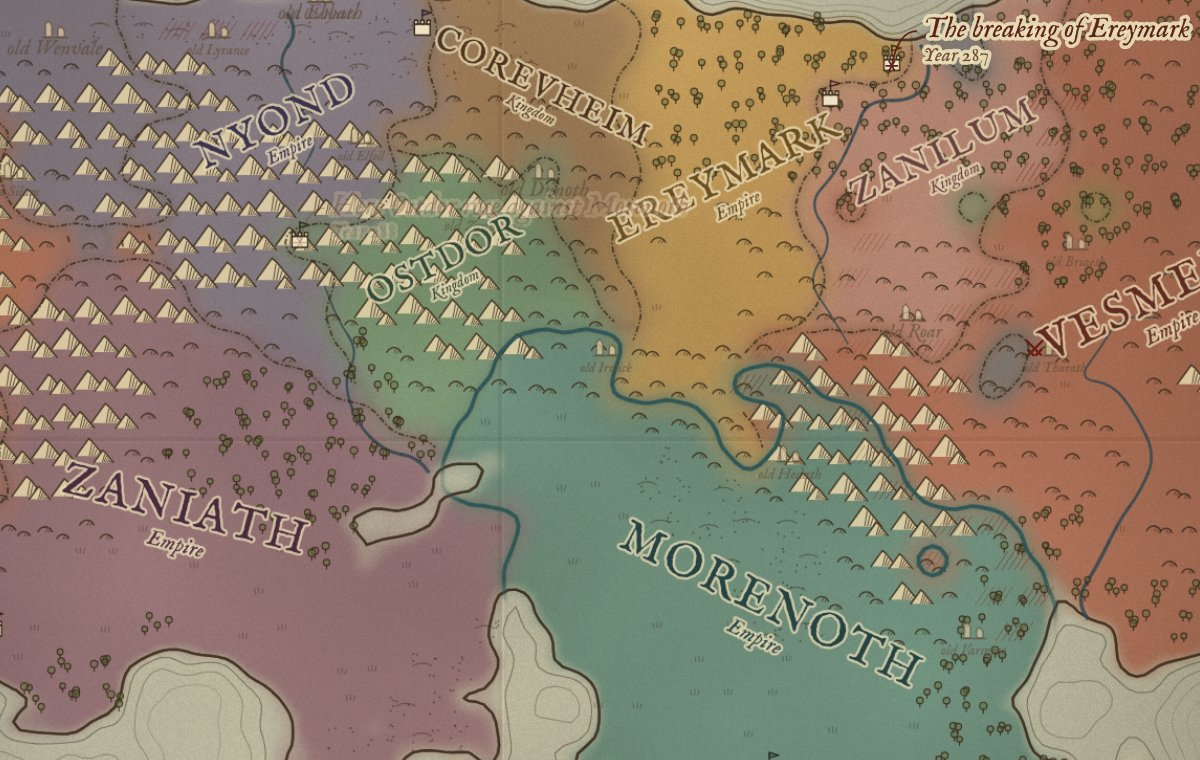
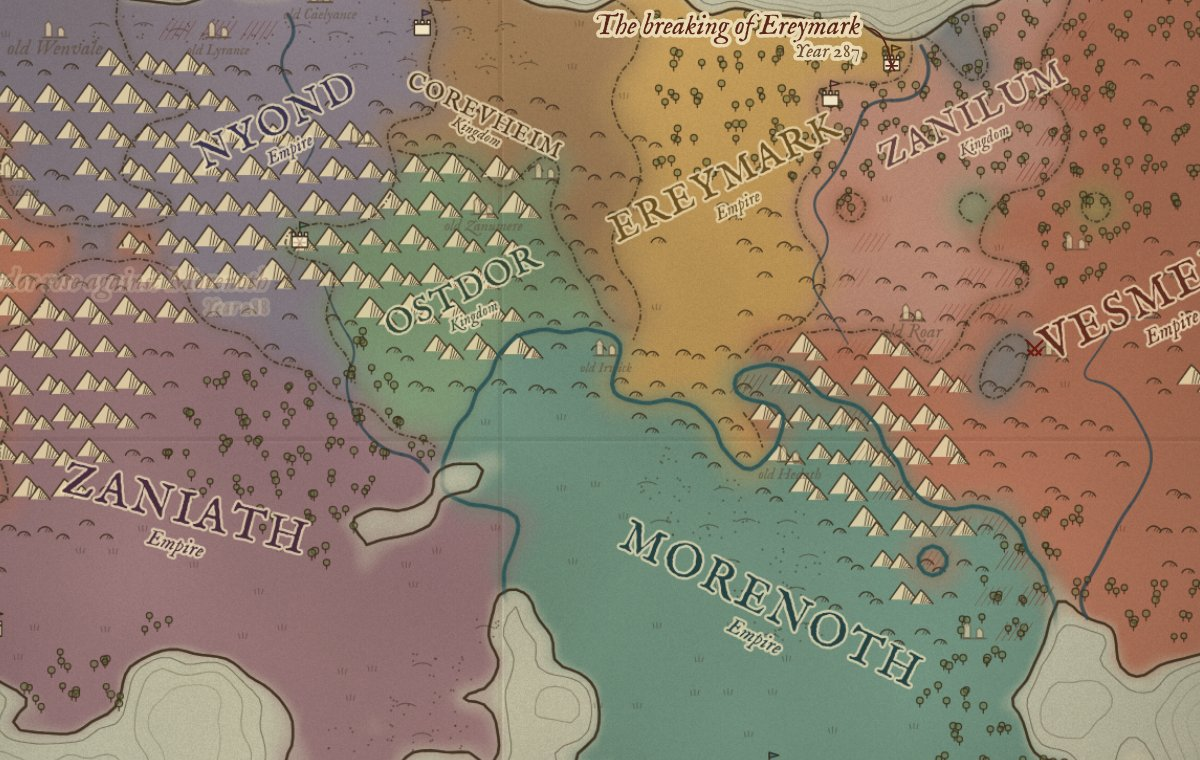
Keep the map legible and welcome first-time visitors
- Realm names are placed without collisions: biggest first, trying other spots
  and smaller sizes; small realms go unnamed rather than crowd the map.
- Ruin names appear only where there is room; map notes pick the corner that
  covers the fewest names.
- First-time visitors get a short welcome explaining what they are watching.
- Refresh README screenshots.

Claude-Session: https://claude.ai/code/session_01HbhNXhFmDXk7axxV6X9tAC

diff --git a/index.html b/index.html
@@ -250,7 +250,7 @@ let seed, worldName, gw, gh, F, thr, hexes, land, landCount, rivers, owner, dist
 let COLS, ROWS, X0, Y0, gOff, gHex, gW, liveFields, liveBorders, snapFields, snapBorders;
 let factions, wars, chron, eras, ruins, notes, tick, collapse, lastWarYear;
 let paperC, inkC, washC, washTmp, landBig, snapWashC, labels, snapLabels;
-let dirty = true, ovDirty = true, follow = null, viewEra = null, ovC;
+let labelBoxes = [], dirty = true, ovDirty = true, follow = null, viewEra = null, ovC;
 
 const year = () => Math.floor(tick / 12) + 1;
 
@@ -685,7 +685,8 @@ function computeLabels(own, infoOf) {
     const ang = a.n < 4 ? 0 : clamp(.5 * Math.atan2(2 * cxy, cxx - cyy), -.45, .45);
     const lx = a.n > 6 ? (mx + best.x) / 2 : best.x, ly = a.n > 6 ? (my + best.y) / 2 : best.y;
     if (a.n < 3) continue;
-    out.push({ x: lx, y: ly, ang, size: clamp(9 + Math.sqrt(a.n) * 2.2, 10, 30), n: a.n, ...info });
+    const near = a.tiles.map(h => [(h.x - mx) ** 2 + (h.y - my) ** 2, h]).sort((p, q) => p[0] - q[0]).slice(0, 10).map(([, h]) => [h.x, h.y]);
+    out.push({ x: lx, y: ly, cands: [[lx, ly], ...near], ang, size: clamp(9 + Math.sqrt(a.n) * 2.2, 10, 30), n: a.n, ...info });
   }
   return out.sort((p, q) => q.n - p.n);
 }
@@ -1178,7 +1179,7 @@ function restoreWorld(sv) {
   owner.set(unb64(sv.owner));
   for (const [i, t] of sv.caps) hexes[i].lastCap = t;
   factions = sv.factions.map(o => ({ ...o, allies: new Set(o.allies), truce: new Map(o.truce), fronts: new Map(), wildFront: [] }));
-  wars = sv.wars; chron = sv.chron; ruins = sv.ruins; notes = sv.notes || []; collapse = sv.collapse; lastWarYear = sv.lastWarYear;
+  wars = sv.wars; chron = sv.chron; ruins = sv.ruins; notes = (sv.notes || []).map(({ q, box, ...n }) => n); collapse = sv.collapse; lastWarYear = sv.lastWarYear;
   eras = sv.eras.map(e => ({ ...e, snap: e.snap ? { owner: unb64(e.snap.owner), info: new Map(e.snap.info) } : null }));
   usedNames = new Set(sv.usedNames); usedWars = new Map(sv.usedWars);
   for (const e of chron.slice(-250)) pushChronDom(e);
@@ -1188,6 +1189,21 @@ function restoreWorld(sv) {
   computeStats();
   dirty = true; renderCard(); renderTimeline(); resize();
   setSeedUrl(sv.seed);
+}
+function showIntro(shared) {
+  const el = document.getElementById('away');
+  el.innerHTML = `<h3>A world that plays itself</h3>
+    <p>${shared ? `Someone shared the world of ${worldName} with you.` : `This is ${worldName}.`} Its realms rise, make war, betray each other
+    and fall without anyone's help, and the chronicle on the right records every reign.</p>
+    <ul>
+      <li>Click a realm, or a name in the chronicle, to follow its fortunes.</li>
+      <li>Click an age on the timeline below to see the map as it stood then.</li>
+      <li>Close the tab whenever you like. Time keeps passing, and you'll hear what happened when you return.</li>
+    </ul>
+    <button id="awayok">Begin watching</button>`;
+  el.hidden = false;
+  document.getElementById('awayok').onclick = () => { el.hidden = true; };
+  document.getElementById('awayok').focus();
 }
 function offerReturn(prev) {
   const el = document.getElementById('away'), mine = prev.worldName || 'your own world';
@@ -1266,42 +1282,93 @@ function drawOverlay(x, own, labs, live, fields, borders) {
   }
   x.setTransform(1, 0, 0, 1, 0, 0); x.globalCompositeOperation = 'destination-in'; x.drawImage(landBig, 0, 0);
   x.restore();
-  if (live) {
-    // ruins of the fallen
-    for (const r of ruins) {
-      const fade = clamp(1 - (year() - r.year) / 200, 0, 1); if (fade <= 0) continue;
-      x.globalAlpha = .7 * fade; ruin(x, r.x, r.y);
-      x.font = `italic ${clamp(8 + Math.sqrt(r.peak), 9, 14)}px "IM Fell English", Georgia, serif`; x.textAlign = 'center';
-      x.fillStyle = '#5c4a38'; x.fillText(`old ${r.name}`, r.x, r.y + 15);
+  // place names without collisions: biggest realms first; a name that would overlap tries other
+  // spots in its realm, then smaller sizes, and a small realm's name is left off rather than crowd the map
+  const boxes = [
+    { x0: CART.x - 6, y0: CART.y - 6, x1: CART.x + CART.w + 6, y1: CART.y + CART.h + 6 },
+    { x0: COMPASS.x - COMPASS.r - 6, y0: COMPASS.y - COMPASS.r - 22, x1: COMPASS.x + COMPASS.r + 6, y1: COMPASS.y + COMPASS.r + 6 },
+  ];
+  const hit = b => boxes.some(o => b.x0 < o.x1 && b.x1 > o.x0 && b.y0 < o.y1 && b.y1 > o.y0);
+  const inFrame = b => b.x0 > MARGIN && b.x1 < MW - MARGIN && b.y0 > MARGIN && b.y1 < MH - MARGIN;
+  const placed = [];
+  for (const l of labs) {
+    const ca = Math.abs(Math.cos(l.ang)), sa = Math.abs(Math.sin(l.ang)), sub = l.n >= 12;
+    const boxAt = (c, size, w) => {
+      const hgt = size * (sub ? 1.95 : 1.15), cx = c[0], cy = c[1] - (l.n > 3 ? 12 : 14) + (sub ? size * .4 : 0);
+      const hx = ca * w / 2 + sa * hgt / 2, hy = sa * w / 2 + ca * hgt / 2;
+      return { x0: cx - hx, x1: cx + hx, y0: cy - hy, y1: cy + hy };
+    };
+    let done = null;
+    for (const k of [1, .85, .72]) {
+      const size = Math.max(9, l.size * k);
+      x.font = `${size}px "IM Fell English SC", Georgia, serif`;
+      const w = x.measureText(spaced(l.name)).width + 8;
+      for (const c of l.cands) { const b = boxAt(c, size, w); if (!hit(b) && inFrame(b)) { done = { c, size, b }; break; } }
+      if (done) break;
+      if (k === .72 && l.n >= 30) done = { c: l.cands[0], size, b: boxAt(l.cands[0], size, w) };   // a great realm is always named
     }
-    x.globalAlpha = 1;
+    if (done) { boxes.push(done.b); placed.push({ l, ...done }); }
   }
   // capitals
   for (const l of labs) { const c = hexes[l.capital]; if (c && own[c.i] === l.id) castle(x, c.x, c.y, l.color); }
+  if (live) {
+    // ruins of the fallen: the broken tower always, its old name only where there is room
+    x.textAlign = 'center';
+    for (const r of ruins) {
+      const fade = clamp(1 - (year() - r.year) / 200, 0, 1); if (fade <= 0) continue;
+      x.globalAlpha = .7 * fade; ruin(x, r.x, r.y);
+      const fs = clamp(8 + Math.sqrt(r.peak), 9, 14), t = `old ${r.name}`;
+      x.font = `italic ${fs}px "IM Fell English", Georgia, serif`;
+      const w = x.measureText(t).width, b = { x0: r.x - w / 2 - 2, x1: r.x + w / 2 + 2, y0: r.y + 15 - fs * .8, y1: r.y + 15 + fs * .3 };
+      if (hit(b)) continue;
+      boxes.push(b); x.fillStyle = '#5c4a38'; x.fillText(t, r.x, r.y + 15);
+    }
+    x.globalAlpha = 1;
+    labelBoxes = boxes;
+  }
   // names
   x.textAlign = 'center'; x.textBaseline = 'middle';
-  for (const l of labs) {
-    x.save(); x.translate(l.x, l.y - (l.n > 3 ? 12 : 14)); x.rotate(l.ang);
-    x.font = `${l.size}px "IM Fell English SC", Georgia, serif`;
+  for (const { l, c, size } of placed) {
+    x.save(); x.translate(c[0], c[1] - (l.n > 3 ? 12 : 14)); x.rotate(l.ang);
+    x.font = `${size}px "IM Fell English SC", Georgia, serif`;
     const txt = spaced(l.name);
     x.lineWidth = 3.2; x.strokeStyle = 'rgba(234,219,182,.75)'; x.strokeText(txt, 0, 0);
     x.fillStyle = mix(l.color, '#20150c', .55); x.fillText(txt, 0, 0);
     if (l.n >= 12) {
-      x.font = `italic ${Math.max(10, l.size * .45)}px "IM Fell English", Georgia, serif`;
-      x.strokeText(l.sub, 0, l.size * .72); x.fillText(l.sub, 0, l.size * .72);
+      x.font = `italic ${Math.max(10, size * .45)}px "IM Fell English", Georgia, serif`;
+      x.strokeText(l.sub, 0, size * .72); x.fillText(l.sub, 0, size * .72);
     }
     x.restore();
   }
   x.textBaseline = 'alphabetic';
 }
 // per-frame marks: fresh conquests and the swords on each front
+const noteAnchor = (n, q) => { const left = q & 1, up = q & 2, far = q & 4; return [n.x + (left ? -1 : 1) * (far ? 34 : 16), n.y + (up ? -1 : 1) * (far ? 56 : 24) + (up ? 0 : 2)]; };
+function noteBox(n, q, w) {
+  const left = q & 1, [ax, ty] = noteAnchor(n, q), tx = ax + (left ? -4 : 4);
+  return left ? { x0: tx - w, x1: tx, y0: ty - 12, y1: ty + 24 } : { x0: tx, x1: tx + w, y0: ty - 12, y1: ty + 24 };
+}
+function noteCorner(x, n) {
+  x.font = 'italic 18px "IM Fell English", Georgia, serif';
+  const w = x.measureText(n.text).width + 8, others = notes.filter(o => o !== n && o.q != null).map(o => o.box);
+  let best = 0, bs = Infinity;
+  for (let q = 0; q < 8; q++) {
+    const b = noteBox(n, q, w);
+    let sc = (b.x0 < MARGIN || b.x1 > MW - MARGIN || b.y0 < MARGIN || b.y1 > MH - MARGIN) ? 1e7 : 0;
+    for (const o of [...labelBoxes, ...others]) sc += Math.max(0, Math.min(b.x1, o.x1) - Math.max(b.x0, o.x0)) * Math.max(0, Math.min(b.y1, o.y1) - Math.max(b.y0, o.y0));
+    sc += q & 4 ? 200 : 0;          // prefer staying close to the mark
+    if (sc < bs) { bs = sc; best = q; }
+  }
+  n.box = noteBox(n, best, w);
+  return best;
+}
 function drawNotes(x) {
   x.save();
   for (const n of notes) {
     const age = tick - n.t; if (age >= NOTE_LIFE) continue;
     x.globalAlpha = Math.min(1, (age + 1) / 4) * Math.min(1, (NOTE_LIFE - age) / 50);
-    const left = n.x > MW - 330, up = n.y > 140;
-    const tx = n.x + (left ? -16 : 16), ty = n.y + (up ? -22 : 26);
+    if (n.q == null) { if (dirty) continue; n.q = noteCorner(x, n); }   // wait until the names are placed for this map
+    const left = n.q & 1, [tx, ty] = noteAnchor(n, n.q);
     x.strokeStyle = '#5a2418'; x.lineWidth = 1.1;
     x.beginPath(); x.moveTo(n.x, n.y); x.quadraticCurveTo(n.x + (left ? -4 : 4), ty, tx, ty); x.stroke();
     x.beginPath(); for (let k = 0; k < 3; k++) { const a = k * Math.PI / 3; x.moveTo(n.x - 4 * Math.cos(a), n.y - 4 * Math.sin(a)); x.lineTo(n.x + 4 * Math.cos(a), n.y + 4 * Math.sin(a)); } x.stroke();
@@ -1556,6 +1623,7 @@ window.__sim = {
     if (sv && q && q !== sv.seed) { try { localStorage.setItem(PREV_KEY, JSON.stringify(sv)); } catch (e) {} }
     newWorld(q || (Math.random() * 2 ** 31) | 0);
     if (sv && q && q !== sv.seed) offerReturn(sv);
+    else if (!sv) showIntro(!!q);
   }
   document.getElementById('loading').remove();
   requestAnimationFrame(frame);
